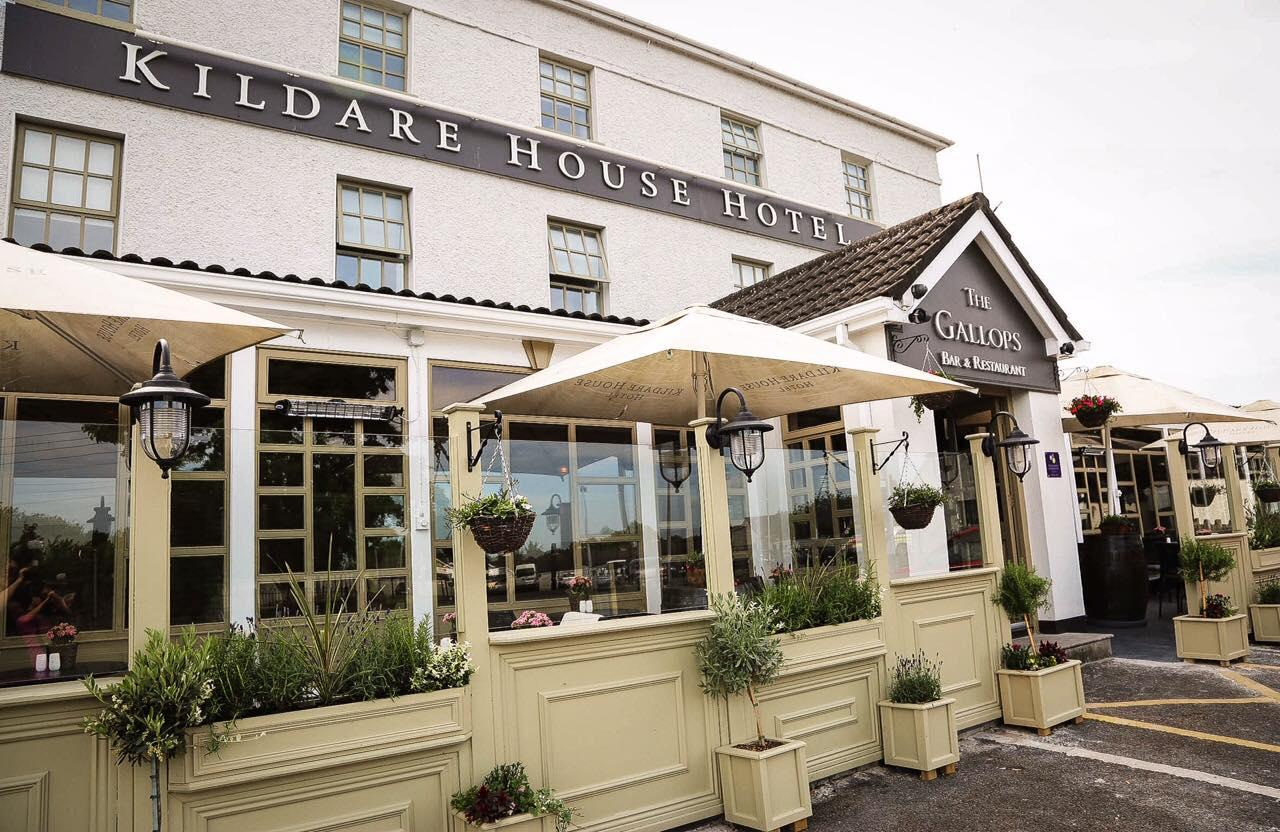
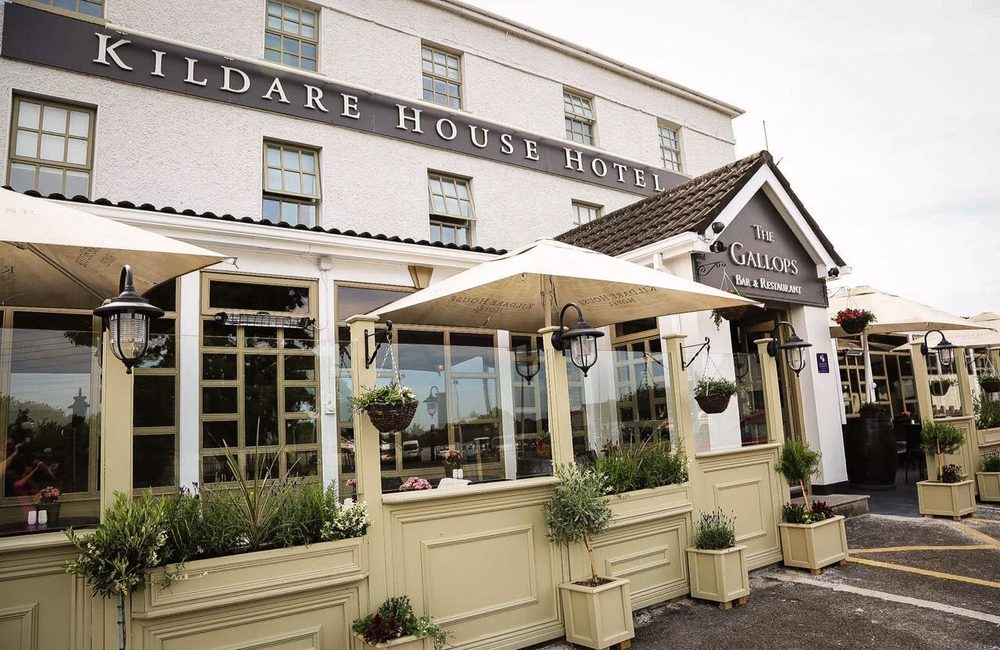
Compress and resize site images
Images were far larger than their display size warranted (e.g. the
stables photo was a 12MP, 2.6MB JPEG shown in a 170px-tall card),
which made first-load slow enough that images sometimes only
appeared after a refresh. Resize each to its actual display size and
re-encode as compressed JPEG: total asset payload drops from ~9.3MB
to ~1MB. hero.png/footer.png become hero.jpg/footer.jpg since they're
photos with no transparency need.

Claude-Session: https://claude.ai/code/session_01DNh3GBzQeDRZmCFxmtNYWo

diff --git a/css/styles.css b/css/styles.css
@@ -79,7 +79,7 @@ a:hover { color: var(--ink); }
   background-repeat: no-repeat;
 }
 
-.hero__slide--image.hero__slide--1 { background-image: url('../assets/hero.png'); }
+.hero__slide--image.hero__slide--1 { background-image: url('../assets/hero.jpg'); }
 
 .hero__placeholder {
   width: 100%;
@@ -743,7 +743,7 @@ a:hover { color: var(--ink); }
 
 .closing-image {
   height: 260px;
-  background-image: url('../assets/footer.png');
+  background-image: url('../assets/footer.jpg');
   background-size: cover;
   background-position: 50% 60%;
   background-repeat: no-repeat;
